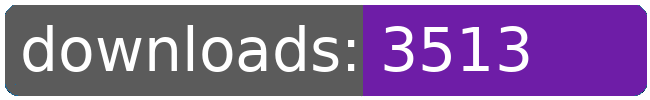
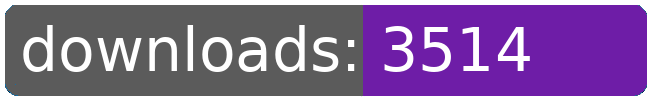
dl log written

Changed region(s): [[0.7692, 0.24, 0.8308, 0.72]]

diff --git a/README.md b/README.md
@@ -21,8 +21,8 @@
 		<td>3457</td>
 		<td>3480</td>
 		<td>3504</td>
-		<td>3513</td>
-		<td>+ 9</td>
+		<td>3514</td>
+		<td>+ 10</td>
 	</tr>
 	<tr>
 		<td>aberrant.kahet.outfitter</td>
@@ -274,8 +274,8 @@
 		<td></td>
 		<td></td>
 		<td></td>
-		<td>50688</td>
-		<td>156</td>
+		<td>50689</td>
+		<td>157</td>
 	</tr>
 </table>
 </sub></sup>
@@ -322,8 +322,8 @@
 		<td>3457</td>
 		<td>3480</td>
 		<td>3504</td>
-		<td>3513</td>
-		<td>+ 9</td>
+		<td>3514</td>
+		<td>+ 10</td>
 	</tr>
 	<tr>
 		<td>capture.archons</td>
@@ -553,8 +553,8 @@
 		<td></td>
 		<td></td>
 		<td></td>
-		<td>50688</td>
-		<td>156</td>
+		<td>50689</td>
+		<td>157</td>
 	</tr>
 </table>
 </sub></sup>
